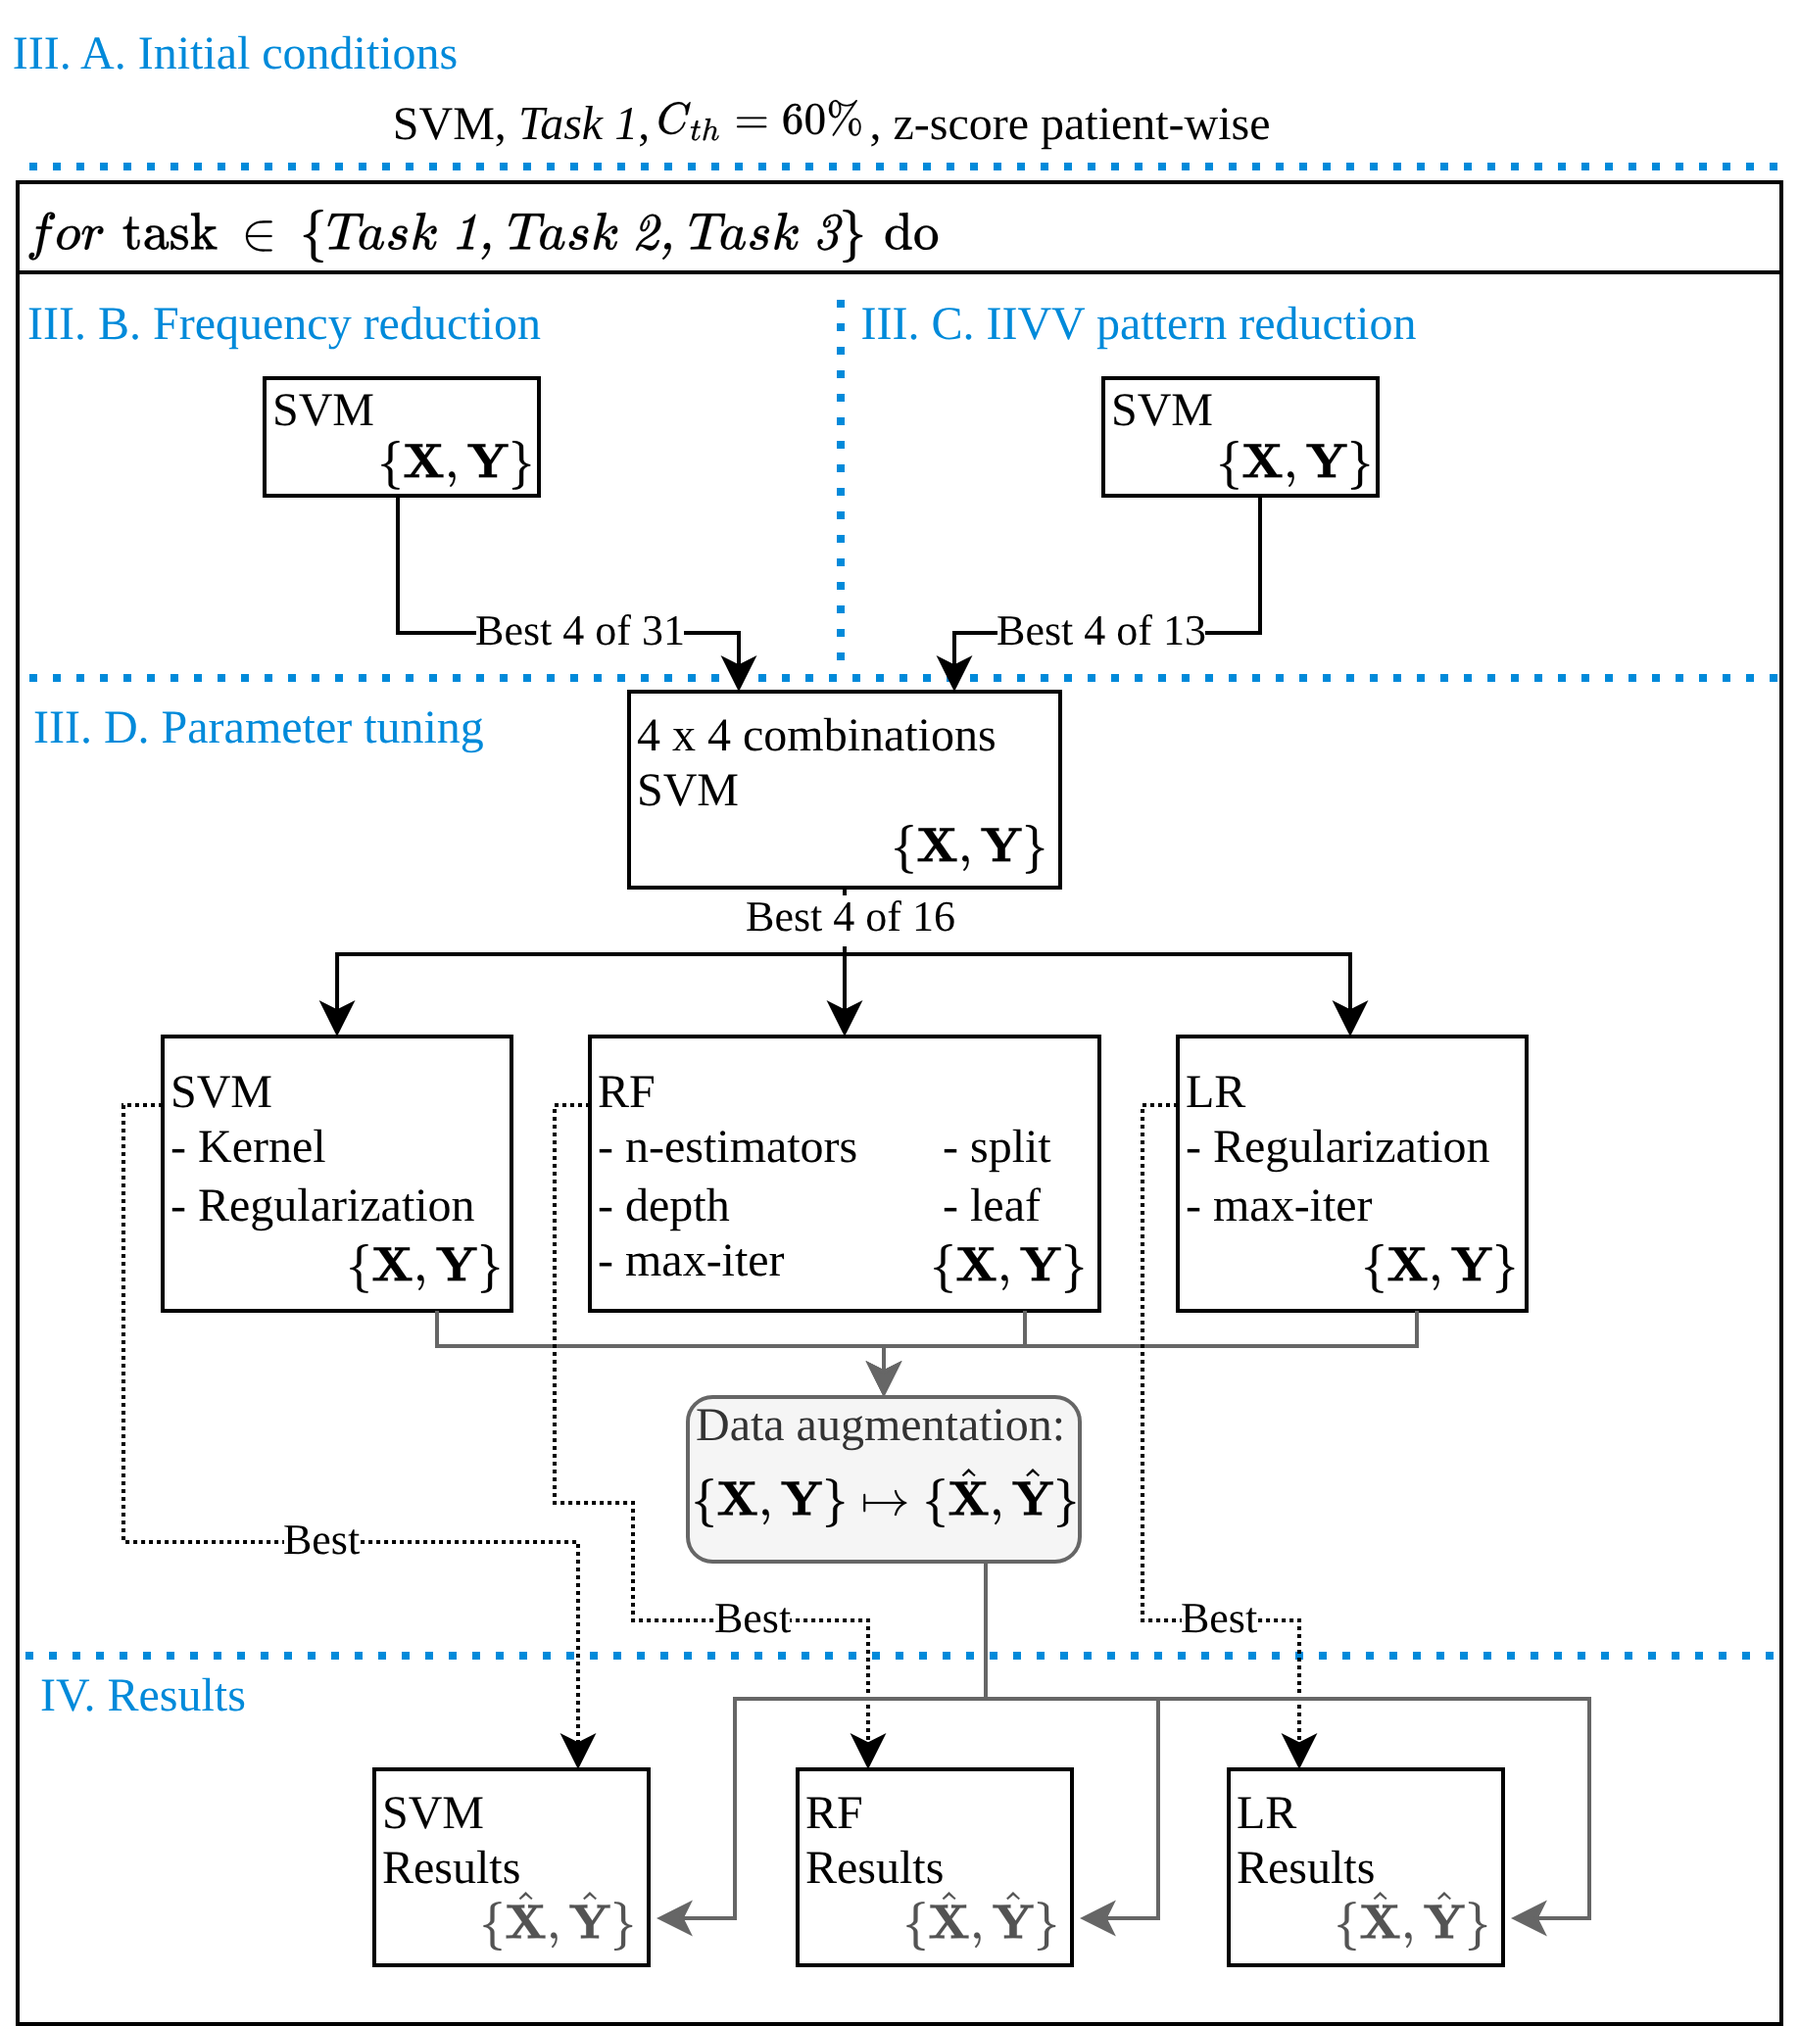
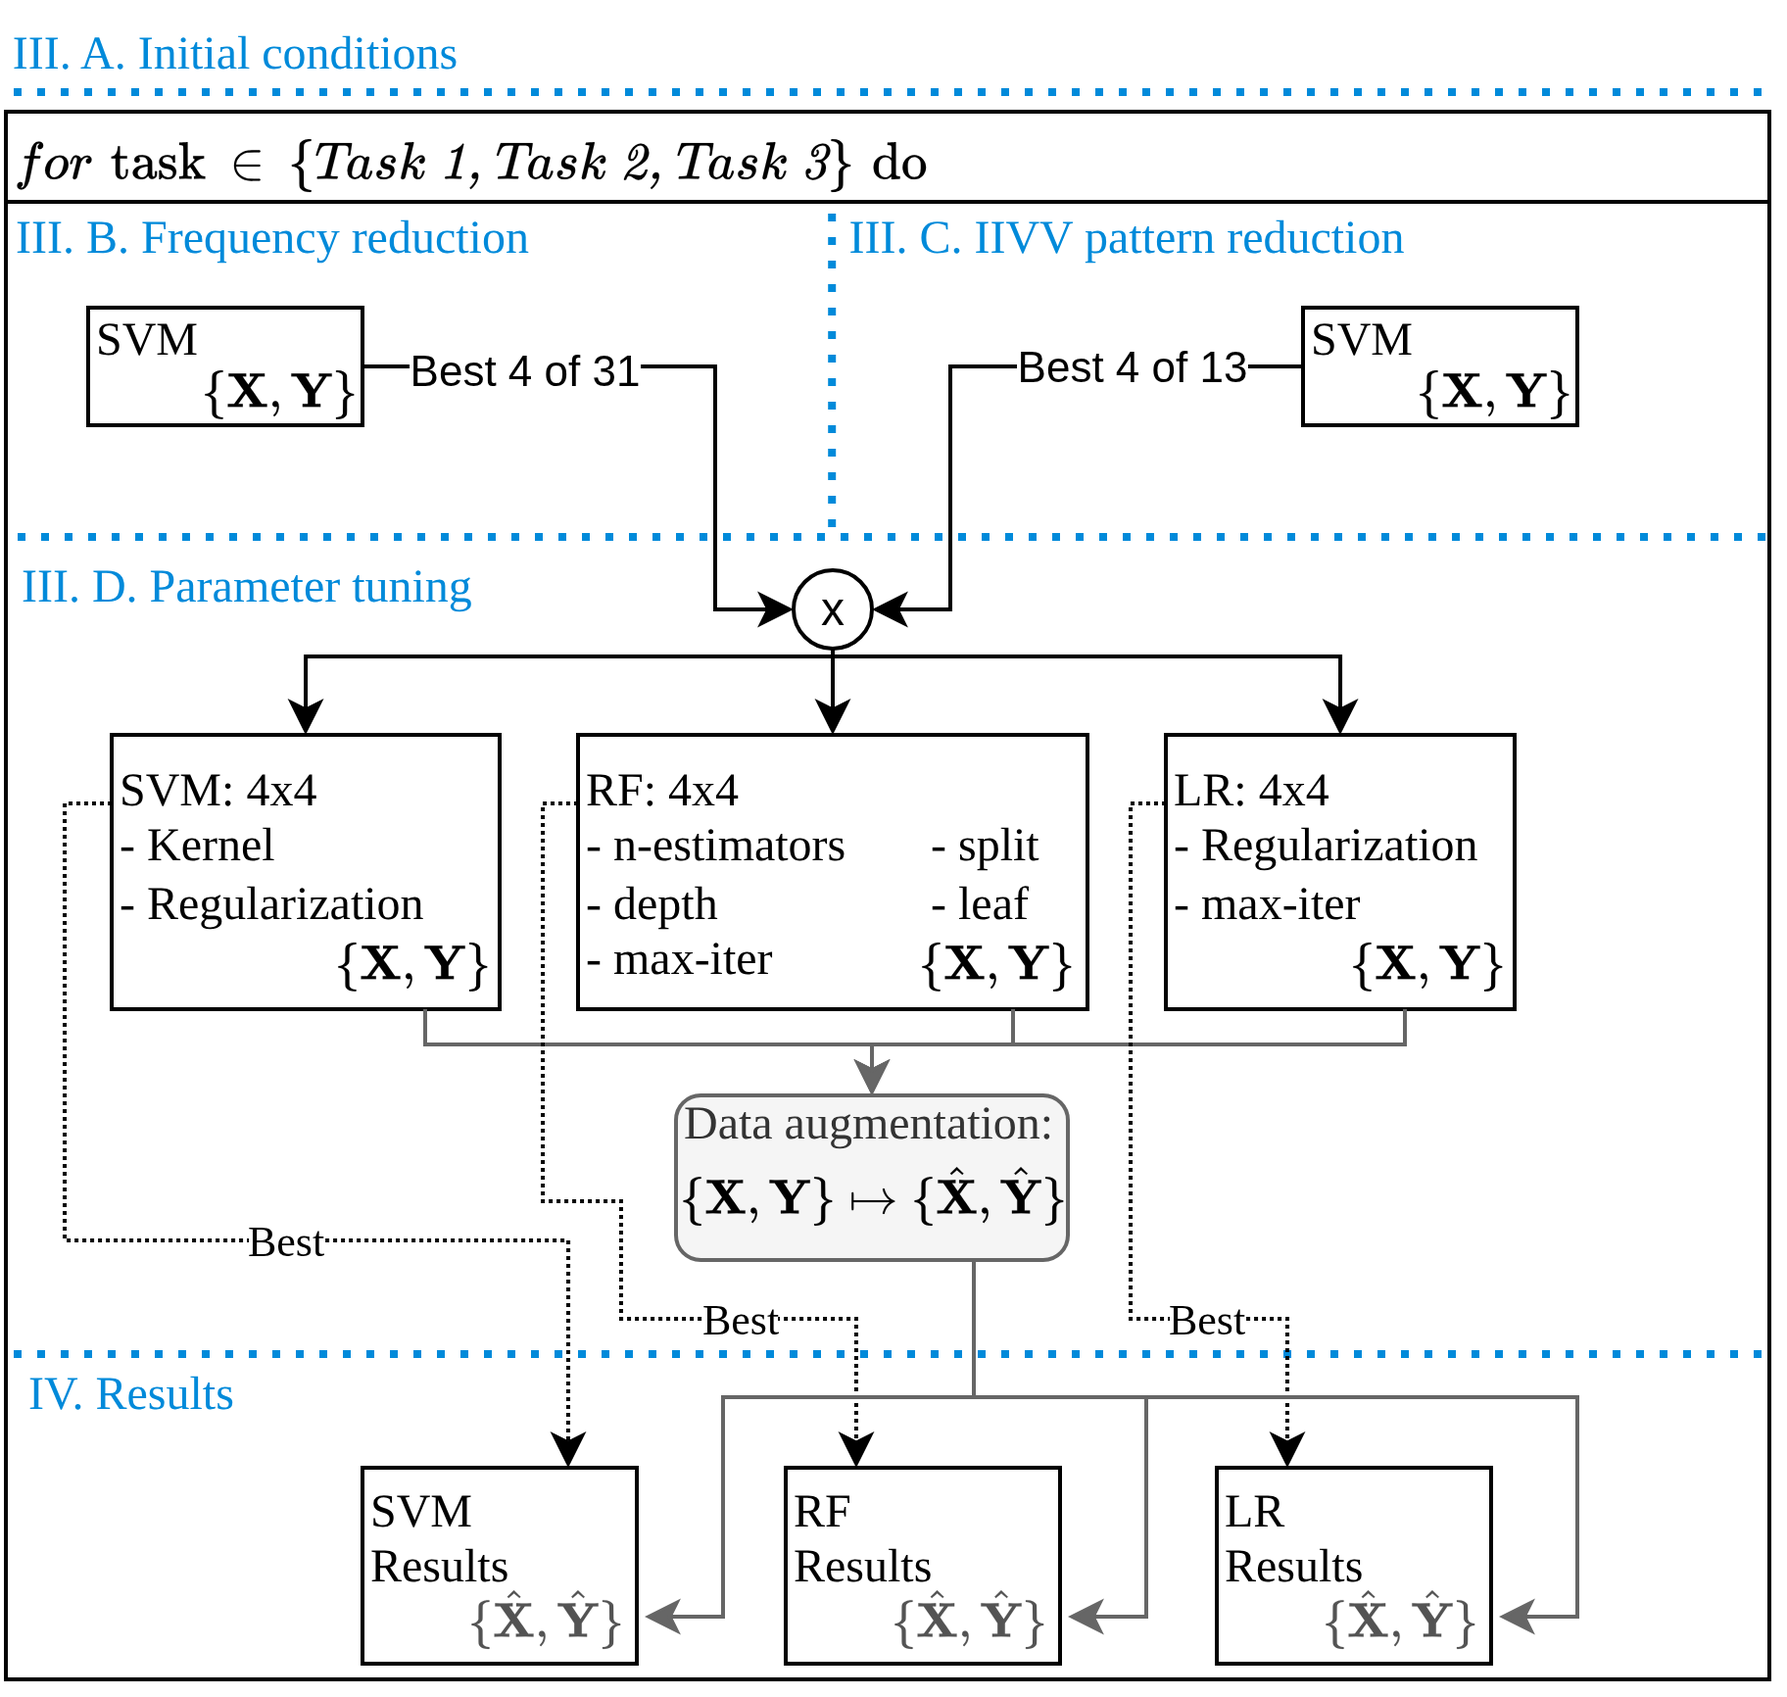
upd MC to 4 labels

diff --git a/toolbox/visualization.py b/toolbox/visualization.py
@@ -4,13 +4,13 @@ import matplotlib.pyplot as plt
 import pandas as pd
 
 color_palette_full = {
-    "Healthy": "#003F5C",
+    "Healthy": "#FFA600",
     "Benign": "#58508D",
     "Dysplasia": "#7A5195",
-    "Mild dysplasia": "#BC5090",
-    "Non-cancer": "#DD5182",
+    #"Mild dysplasia": "#BC5090",
+    "Non-cancer": "#003F5C",
     "Severe dysplasia": "#FF6361",
-    "Cancer": "#FFA600",
+    "Cancer": "#DD5182",
 }
 
 
@@ -21,7 +21,7 @@ cmap_gradient = mcolors.LinearSegmentedColormap.from_list(
     "custom_gradient",
     [
         color_palette_full["Healthy"],
-        color_palette_full["Mild dysplasia"],
+        color_palette_full["Severe dysplasia"],
         color_palette_full["Cancer"],
     ],
 )
